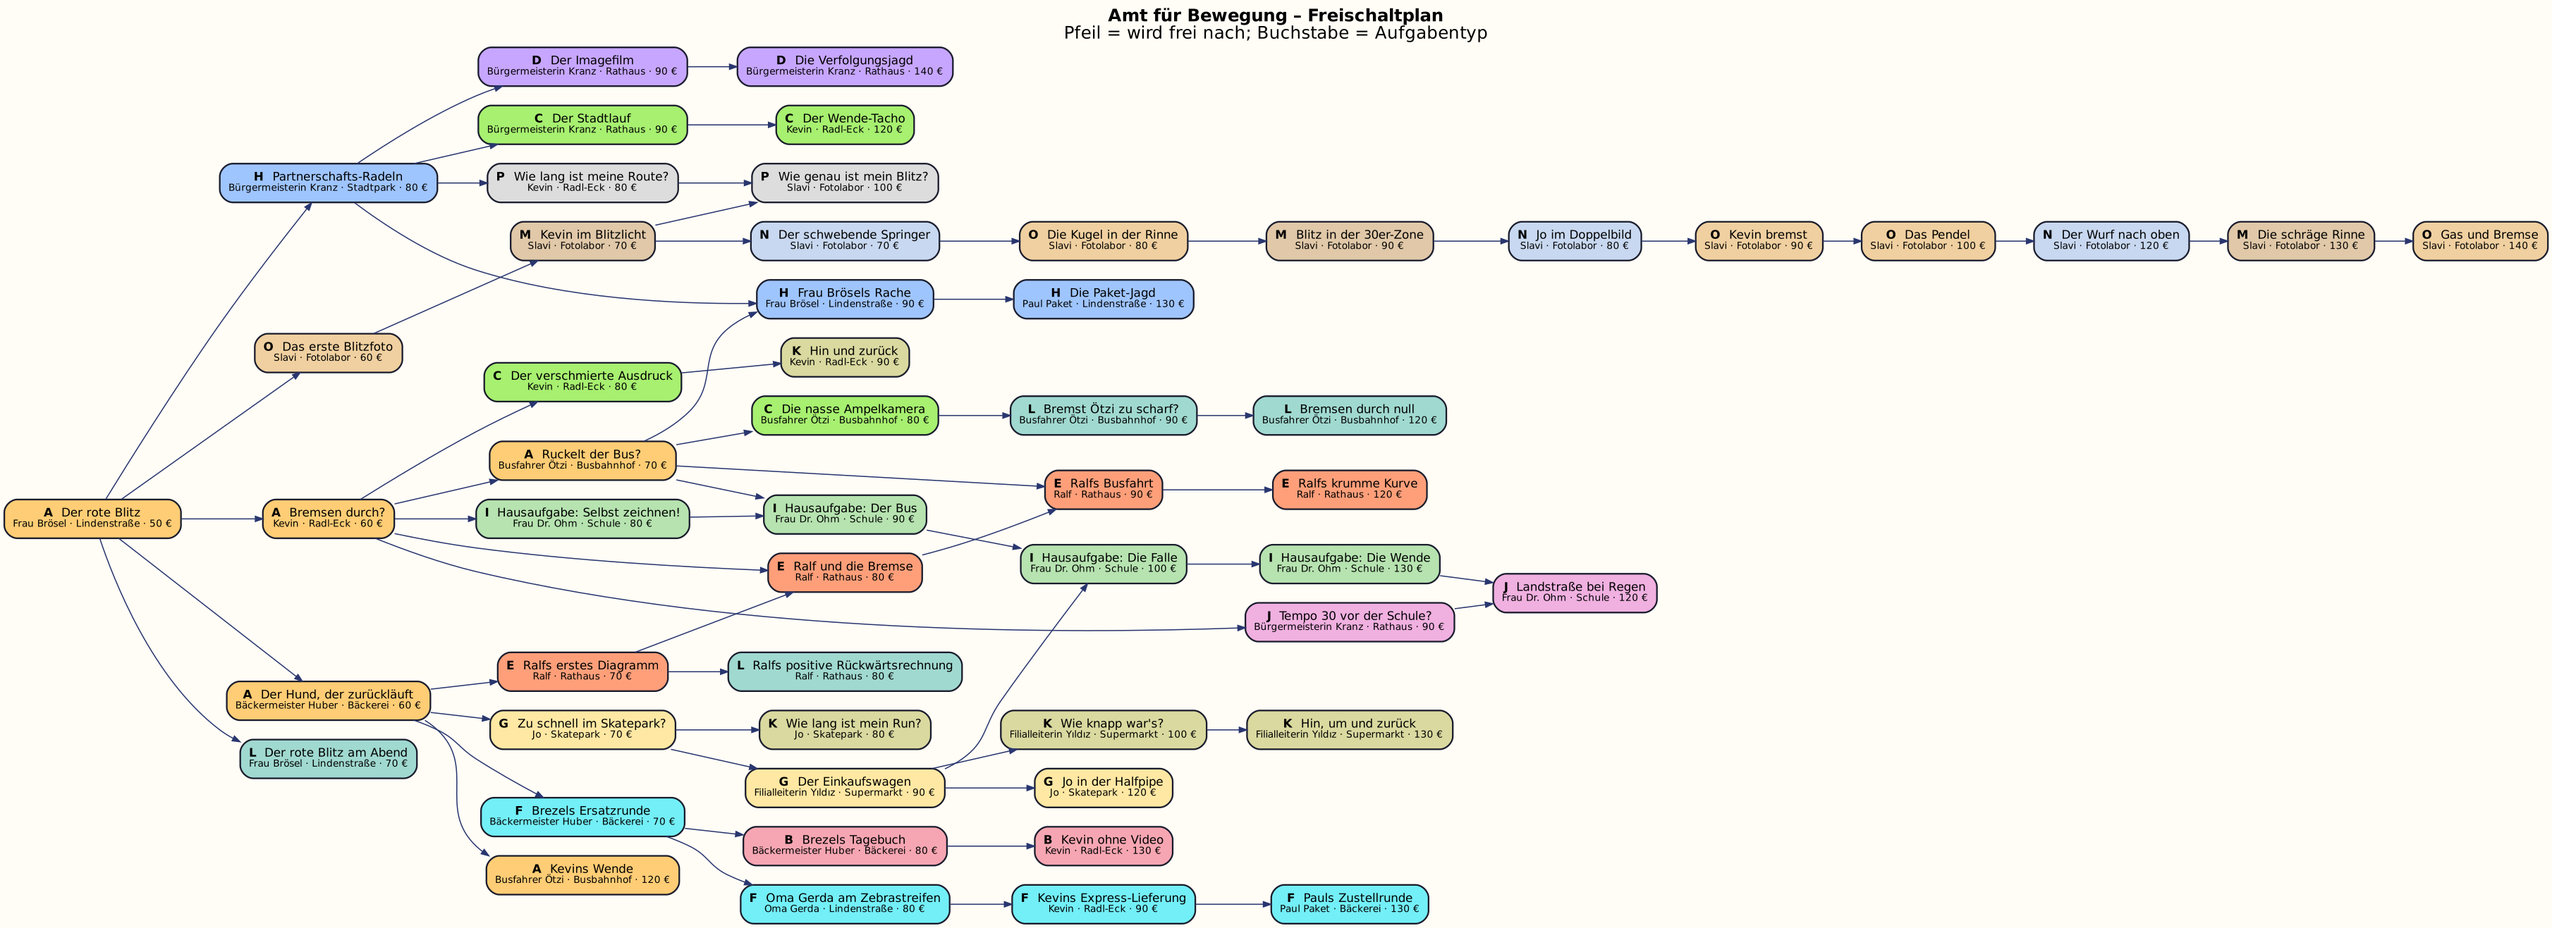
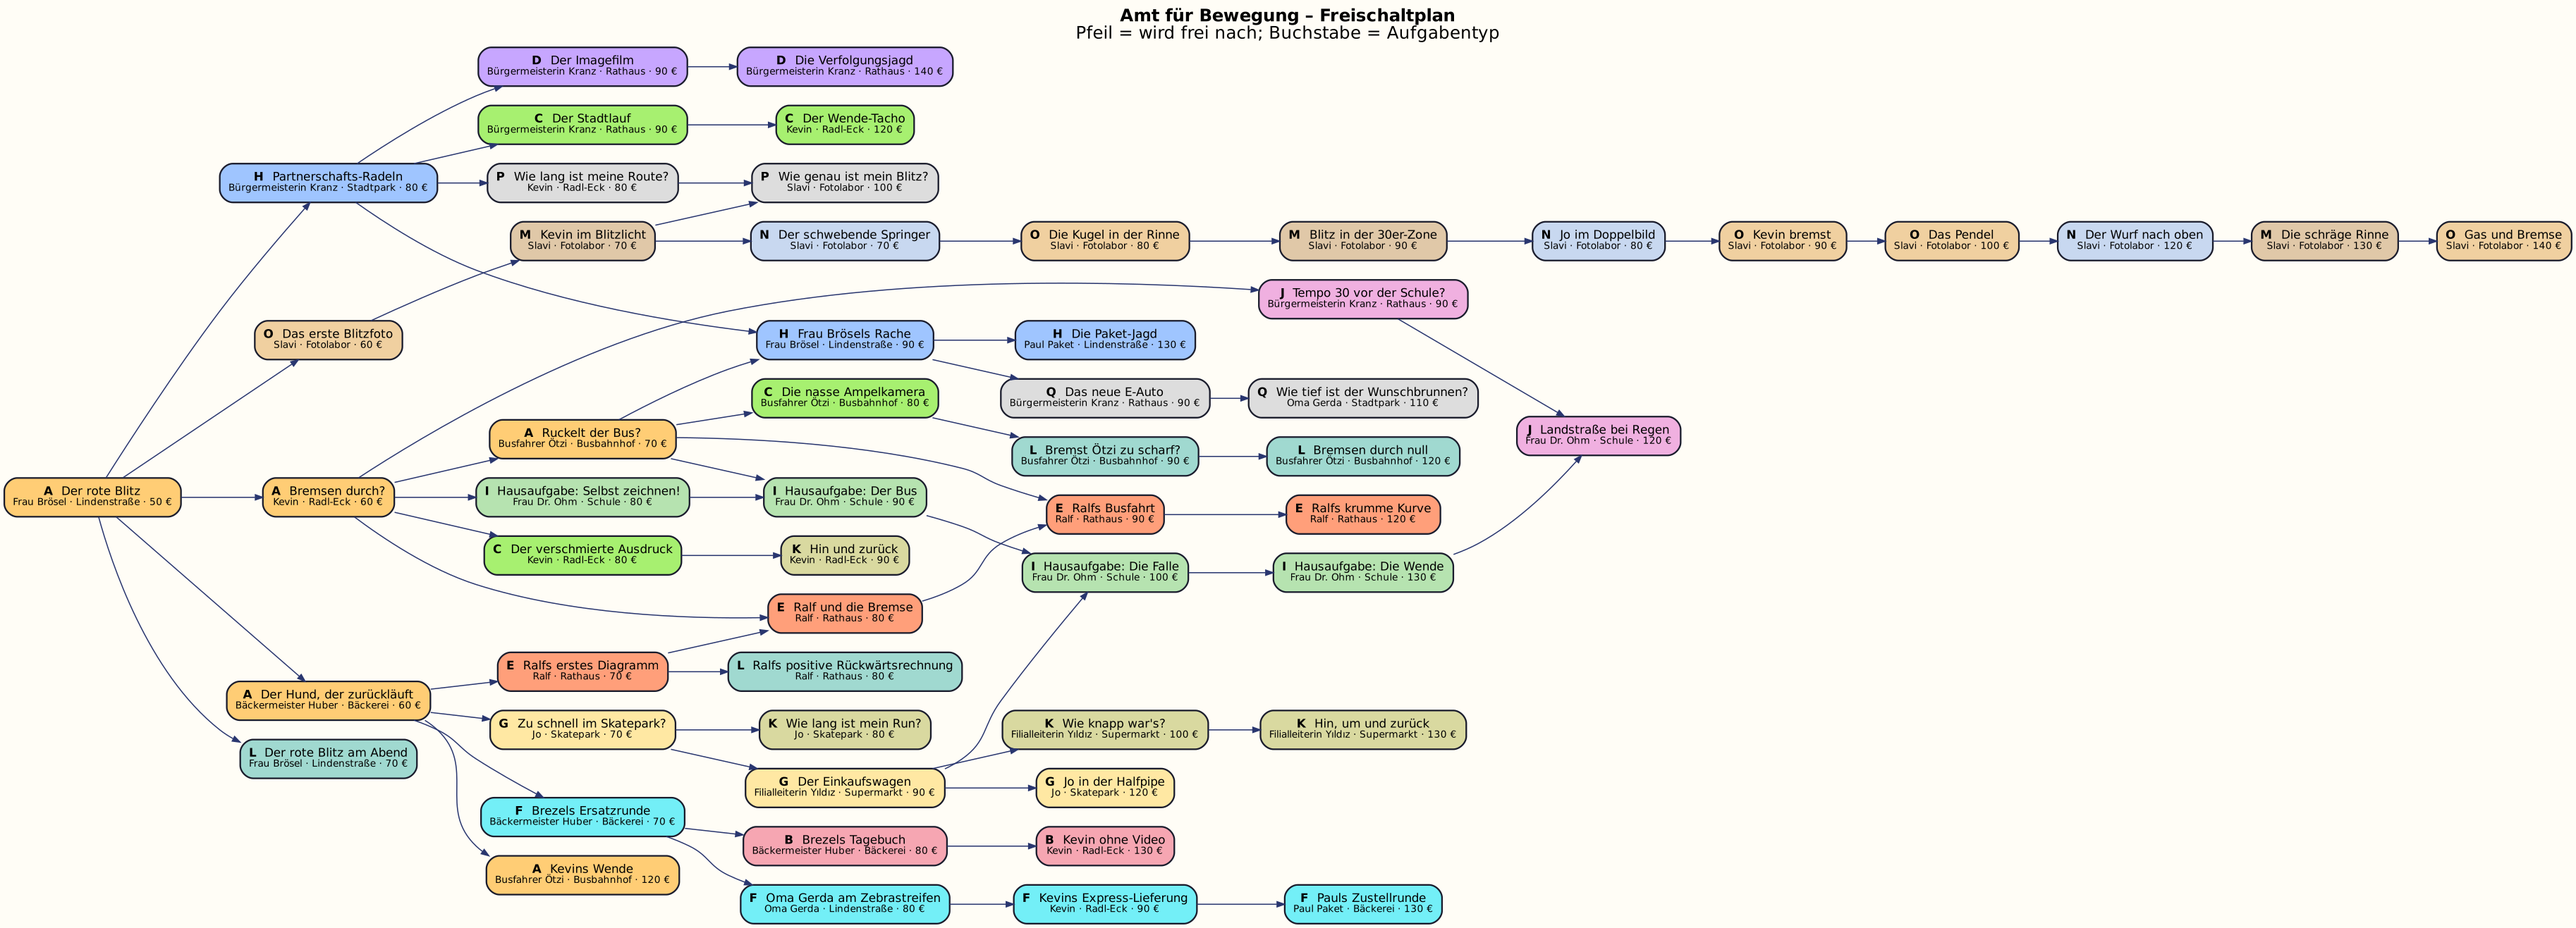
W30 Teil 2: Neuer Aufgabentyp Q Bewegungsformel (umstellen per Auswahl, dann ausrechnen), Aufträge t56 E-Auto und t57 Wunschbrunnen mit Fall-Animation
Claude-Session: https://claude.ai/code/session_01YJm9GvWdMK6dmGfHSmaVkh

diff --git a/js/tasks/formula.js b/js/tasks/formula.js
@@ -1,0 +1,85 @@
+// Aufgabentyp Q: Bewegungsformel [W30]. Schritt 1: die richtig umgestellte Formel antippen.
+// Schritt 2: mit den bekannten Größen ausrechnen und eintippen (Polizist aktiv wie bei H).
+// Geld wie H: perfect = beide Schritte beim ersten Versuch; partial = selbst gelöst; fail = „Lösung zeigen“.
+//
+// Ticket-Feld "task":
+// { "type":"formula", "given":["anim"] (nur mit Szenario), "picture":{ "kind":"well", "t":2.4 } (ohne Szenario),
+//   "prompt":"…", "paper":"…", "formula":"x = ½ · a · t²", "solveFor":"t",
+//   "known":[ { "name":"a", "sym":"a", "value":3, "unit":"m/s²", "text":"3,0 m/s²" }, … ],
+//   "choices":[ { "text":"t = √(2x / a)", "correct":true }, { "text":"…", "feedback":"…" } ],
+//   "expr":"sqrt(2*x/a)", "label":"Fahrzeit", "symbol":"t", "unit":"s", "hints":[…], "help":"…" }
+
+import { evalExpr } from '../engine/variants.js';
+import { buildLeft, frame, actorOf } from './common.js';
+import { questionBlock } from './questions.js';
+import { dropScene } from '../render/drop.js';
+import { shuffle } from './match.js';
+import { addSignButtons } from '../ui/signbtn.js';
+
+export function mount(root, { ticket, world, onSolved }) {
+  const task = ticket.task;
+  const { left, right } = frame(root);
+  let L = null, drop = null;
+
+  // ---------- links: Bewegung oder Bild, Bekanntes, Notizzettel ----------
+  if (world) L = buildLeft(left, { ticket, world, actor: actorOf(world, task) });
+  else {
+    if (task.picture?.kind === 'well') drop = dropScene(left, { t: task.picture.t, label: task.picture.label });
+    if (task.paper) {
+      left.insertAdjacentHTML('beforeend', '<div class="paper-note"><strong>✎ Auf Papier</strong><span></span></div>');
+      left.querySelector('.paper-note span').textContent = task.paper;
+    }
+  }
+  const known = document.createElement('div');
+  known.className = 'f-known';
+  known.innerHTML = `<strong>Bekannt</strong>${task.known.map((k) => `<span>${k.sym} = ${k.text}</span>`).join('')}
+    <strong>Gesucht</strong><span>${task.solveFor}</span>`;
+  const note = left.querySelector('.paper-note');
+  left.insertBefore(known, note ?? null);
+
+  // ---------- rechts: Schritt 1 umstellen ----------
+  right.innerHTML = `<p class="prompt"></p>
+    <div class="f-step"><div class="f-head">① Umstellen nach <b></b></div>
+      <div class="f-formula"></div><div class="f-choices"></div><div class="feedback f-fb" aria-live="polite"></div></div>
+    <div class="f-step f-calc hidden"><div class="f-head">② Einsetzen und ausrechnen</div></div>`;
+  right.querySelector('.prompt').textContent = task.prompt;
+  right.querySelector('.f-head b').textContent = task.solveFor;
+  right.querySelector('.f-formula').textContent = task.formula;
+  const fb = right.querySelector('.f-fb');
+  let wrong1 = 0, step1 = false;
+  const list = right.querySelector('.f-choices');
+  shuffle(task.choices.map((c) => ({ ...c })), ticket.id).forEach((c) => {
+    const b = document.createElement('button');
+    b.type = 'button'; b.className = 'f-choice'; b.textContent = c.text;
+    b.addEventListener('click', () => {
+      if (step1 || b.disabled) return;
+      if (!c.correct) {
+        wrong1++; b.disabled = true; b.classList.add('wrong');
+        fb.className = 'feedback f-fb bad'; fb.textContent = c.feedback ?? 'Diese Umstellung stimmt nicht. Mach die Probe: Setz sie in die Ausgangsformel ein!';
+        return;
+      }
+      step1 = true; b.classList.add('right');
+      list.querySelectorAll('.f-choice').forEach((x) => (x.disabled = true));
+      fb.className = 'feedback f-fb ok'; fb.textContent = wrong1 ? 'Jetzt stimmt die Umstellung.' : 'Sauber umgestellt!';
+      startCalc();
+    });
+    list.appendChild(b);
+  });
+
+  // ---------- Schritt 2 ausrechnen ----------
+  function startCalc() {
+    const box = right.querySelector('.f-calc');
+    box.classList.remove('hidden');
+    const params = Object.fromEntries(task.known.map((k) => [k.name, k.value]));
+    const truth = evalExpr(task.expr, params);
+    questionBlock(box, [{ label: task.label, symbol: task.symbol, unit: task.unit, truth, hints: task.hints, help: task.help }], {
+      sig: task.sigCheck !== false,
+      onSolved: ({ attempts, grade }) => onSolved({ attempts: attempts + wrong1, grade: grade === 'perfect' && wrong1 ? 'partial' : grade }),
+    });
+    box.querySelector('input')?.focus({ preventScroll: true });
+    box.scrollIntoView({ block: 'nearest', behavior: 'smooth' });
+    addSignButtons(box); // ±-Knopf auch für das nachträglich erscheinende Feld
+  }
+
+  return { destroy: () => { L?.destroy(); drop?.destroy(); } };
+}

diff --git a/js/render/drop.js b/js/render/drop.js
@@ -1,0 +1,56 @@
+// Kleine Fall-Animation für Typ Q [W30]: Querschnitt eines Brunnens, ein Kiesel fällt in Echtzeit (y ∝ t²)
+// und platscht nach `t` Sekunden ins Wasser. Stoppuhr oben links. Nur Darstellung, keine Spiellogik.
+
+const INK = '#1a1c2c';
+
+/** box: Container; { t: Fallzeit in s, label } → { replay(), destroy() } */
+export function dropScene(box, { t: T = 2, label = 'Brunnen' } = {}) {
+  box.insertAdjacentHTML('beforeend', `<div class="scene-wrap drop-wrap"><canvas class="drop"></canvas>
+    <div class="scene-ctrl"><button class="btn btn-play" type="button">↺</button><span class="drop-info">Nochmal fallen lassen</span></div></div>`);
+  const cv = box.querySelector('canvas.drop'), ctx = cv.getContext('2d');
+  let t0 = performance.now(), raf = 0, splash = 0;
+
+  function draw(now) {
+    const dpr = Math.min(window.devicePixelRatio || 1, 3), r = cv.getBoundingClientRect();
+    if (r.width && (cv.width !== Math.round(r.width * dpr) || cv.height !== Math.round(r.height * dpr))) {
+      cv.width = Math.round(r.width * dpr); cv.height = Math.round(r.height * dpr);
+    }
+    const W = cv.width, H = cv.height, u = H / 100; // 100 Einheiten hoch
+    const t = Math.min(T, (now - t0) / 1000 - 0.6);
+    // Himmel, Wiese, Erdreich
+    ctx.fillStyle = '#9fd6f2'; ctx.fillRect(0, 0, W, 18 * u);
+    ctx.fillStyle = '#38b764'; ctx.fillRect(0, 18 * u, W, 4 * u);
+    ctx.fillStyle = '#7a5235'; ctx.fillRect(0, 22 * u, W, H);
+    for (let i = 0; i < 40; i++) { ctx.fillStyle = i % 2 ? '#6b4226' : '#8a6040'; ctx.fillRect(((i * 97) % 100) / 100 * W, (24 + ((i * 53) % 74)) * u, 3 * u, 2 * u); }
+    // Schacht mit Mauersteinen
+    const sx = W / 2 - 9 * u, sw = 18 * u, top = 18 * u, water = 92 * u;
+    ctx.fillStyle = '#2a2e45'; ctx.fillRect(sx, top, sw, H - top);
+    for (let y = top; y < H; y += 5 * u) for (const x of [sx - 4 * u, sx + sw]) { ctx.fillStyle = (y / u) % 10 < 5 ? '#94b0c2' : '#566c86'; ctx.fillRect(x, y, 4 * u, 4.4 * u); }
+    // Brunnenrand oben
+    ctx.fillStyle = '#c2c7cf'; ctx.fillRect(sx - 7 * u, top - 6 * u, sw + 14 * u, 6 * u); ctx.fillStyle = INK; ctx.fillRect(sx - 7 * u, top - 6 * u, sw + 14 * u, 0.8 * u);
+    // Wasser
+    ctx.fillStyle = '#3b5dc9'; ctx.fillRect(sx, water, sw, H - water);
+    ctx.fillStyle = '#73eff7'; ctx.fillRect(sx, water, sw, 0.8 * u);
+    // Stein
+    const y = top - 3 * u + (t > 0 ? (t / T) ** 2 : 0) * (water - top + 1 * u);
+    if (t < T) { ctx.fillStyle = INK; ctx.fillRect(W / 2 - 3 * u, y - 3 * u, 6 * u, 6 * u); ctx.fillStyle = '#c2c7cf'; ctx.fillRect(W / 2 - 2 * u, y - 2 * u, 4 * u, 4 * u); ctx.fillStyle = '#f4f4f4'; ctx.fillRect(W / 2 - 2 * u, y - 2 * u, 1.5 * u, 1.5 * u); }
+    else {
+      if (!splash) splash = now;
+      const a = Math.min(1, (now - splash) / 600);
+      ctx.fillStyle = `rgba(115,239,247,${1 - a})`;
+      for (const dx of [-6, -3, 0, 3, 6]) ctx.fillRect(W / 2 + dx * u - u, water - (8 - Math.abs(dx)) * a * u * 1.4, 2 * u, 2 * u);
+      if (a < 1) { ctx.font = `${7 * u}px "AmtPixel", monospace`; ctx.fillStyle = '#f4f4f4'; ctx.textAlign = 'center'; ctx.fillText('PLATSCH!', W / 2, water - 10 * u); }
+    }
+    // Stoppuhr
+    ctx.fillStyle = 'rgba(26,28,44,0.8)'; ctx.fillRect(4 * u, 4 * u, 46 * u, 10 * u);
+    ctx.font = `${7.5 * u}px "AmtPixel", monospace`; ctx.textAlign = 'left'; ctx.fillStyle = '#f4f4f4';
+    ctx.fillText(`t = ${Math.max(0, t).toFixed(2).replace('.', ',')} s`, 6 * u, 11.8 * u);
+    ctx.font = `${6 * u}px "AmtPixel", monospace`; ctx.textAlign = 'right'; ctx.fillStyle = INK; ctx.fillText(label, W - 4 * u, 12 * u);
+    raf = requestAnimationFrame(draw);
+  }
+  const replay = () => { t0 = performance.now(); splash = 0; };
+  box.querySelector('.btn-play').addEventListener('click', replay);
+  cv.addEventListener('pointerdown', replay);
+  raf = requestAnimationFrame(draw);
+  return { replay, destroy: () => cancelAnimationFrame(raf) };
+}

diff --git a/css/tasks-neu.css b/css/tasks-neu.css
@@ -170,3 +170,24 @@ body.finale-on #dialog { z-index: 80; }
 .eb-main .eb-row .btn { width: 100%; }
 @media (max-height: 500px) { .eb-main { min-height: 170px; } .eb-wrap { min-height: 0; } }
 .eb-main .eb-row .btn[data-d="1"] { order: 1; } .eb-main .eb-row .eb-val { order: 2; } .eb-main .eb-row .btn[data-d="-1"] { order: 3; }
+
+/* Q Bewegungsformel [W30] */
+.f-known { background: var(--paper); box-shadow: 0 0 0 2px var(--ink); padding: 6px 10px; font-size: 16px; display: flex; flex-wrap: wrap; gap: 4px 14px; align-items: baseline; }
+.f-known strong { font-family: var(--title); font-size: 13px; color: var(--navy); }
+.f-step { background: #fffdf6; box-shadow: 0 0 0 2px var(--ink); padding: 6px 10px; display: flex; flex-direction: column; gap: 6px; }
+.f-head { font-family: var(--pixel); font-size: 15px; }
+.f-formula { font: 600 22px var(--text); text-align: center; padding: 2px; background: #e8f0f8; }
+.f-choices { display: grid; grid-template-columns: 1fr 1fr; gap: 6px; }
+.f-choice { font: 18px var(--text); padding: 6px 8px; background: #fff; border: 0; box-shadow: 0 0 0 2px var(--ink), 2px 2px 0 2px rgba(26,28,44,.3); color: var(--ink); }
+.f-choice.right { background: #d8f5df; box-shadow: 0 0 0 3px var(--ok); }
+.f-choice.wrong { background: #f8dde2; box-shadow: 0 0 0 2px var(--bad); opacity: .7; }
+.f-step .feedback:empty { display: none; }
+.drop { display: block; width: 100%; aspect-ratio: 1.7 / 1; image-rendering: pixelated; }
+.drop-info { font-size: 13px; color: #f4f4f4; }
+@media (max-height: 500px) {
+  .f-known { font-size: 13px; padding: 4px 8px; }
+  .f-formula { font-size: 17px; }
+  .f-choice { font-size: 14px; padding: 4px 6px; }
+  .f-head { font-size: 13px; }
+  .drop { max-height: 42vh; }
+}

diff --git a/docs/QUESTPLAN.md b/docs/QUESTPLAN.md
@@ -5,7 +5,7 @@
 > Buchstabe = Aufgabentyp (siehe Legende). PNG: `docs/questplan.png`.
 
 Startaufträge (sofort frei): Der rote Blitz.
-Anzahl Aufträge: 54, verdienbar: 5060 €.
+Anzahl Aufträge: 56, verdienbar: 5260 €.
 
 ```mermaid
 flowchart LR
@@ -63,6 +63,8 @@ flowchart LR
   t53_schwer_strobo_bauen["<b>O</b> Gas und Bremse<br/><small>Slavi · Fotolabor · 140 €</small>"]:::tO
   t54_fehler_route["<b>P</b> Wie lang ist meine Route?<br/><small>Kevin · Radl-Eck · 80 €</small>"]:::tP
   t55_fehler_blitz["<b>P</b> Wie genau ist mein Blitz?<br/><small>Slavi · Fotolabor · 100 €</small>"]:::tP
+  t56_formel_eauto["<b>Q</b> Das neue E-Auto<br/><small>Bürgermeisterin Kranz · Rathaus · 90 €</small>"]:::tQ
+  t57_formel_brunnen["<b>Q</b> Wie tief ist der Wunschbrunnen?<br/><small>Oma Gerda · Stadtpark · 110 €</small>"]:::tQ
   t01_sportwagen --> t02_kevin
   t02_kevin --> t03_bus
   t01_sportwagen --> t04_brezel
@@ -123,6 +125,8 @@ flowchart LR
   t05_radeln --> t54_fehler_route
   t54_fehler_route --> t55_fehler_blitz
   t32_strobo_kevin --> t55_fehler_blitz
+  t06_broesel_ampel --> t56_formel_eauto
+  t56_formel_eauto --> t57_formel_brunnen
   classDef tA fill:#ffcd75,stroke:#1a1c2c,color:#1a1c2c
   classDef tB fill:#f6a6b2,stroke:#1a1c2c,color:#1a1c2c
   classDef tC fill:#a7f070,stroke:#1a1c2c,color:#1a1c2c
@@ -159,7 +163,7 @@ flowchart LR
 | N | Stroboskop: beschreiben | 3 |
 | O | Stroboskop: bauen | 5 |
 | P | Fehlerbalken | 2 |
-| Q | Bewegungsformel | 0 |
+| Q | Bewegungsformel | 2 |
 | R | Verbinden | 0 |
 
 ## Liste
@@ -219,3 +223,5 @@ flowchart LR
 | Gas und Bremse | O | Slavi | Fotolabor | 140 € | Die schräge Rinne |
 | Wie lang ist meine Route? | P | Kevin | Radl-Eck | 80 € | Partnerschafts-Radeln |
 | Wie genau ist mein Blitz? | P | Slavi | Fotolabor | 100 € | Wie lang ist meine Route?, Kevin im Blitzlicht |
+| Das neue E-Auto | Q | Bürgermeisterin Kranz | Rathaus | 90 € | Frau Brösels Rache |
+| Wie tief ist der Wunschbrunnen? | Q | Oma Gerda | Stadtpark | 110 € | Das neue E-Auto |
